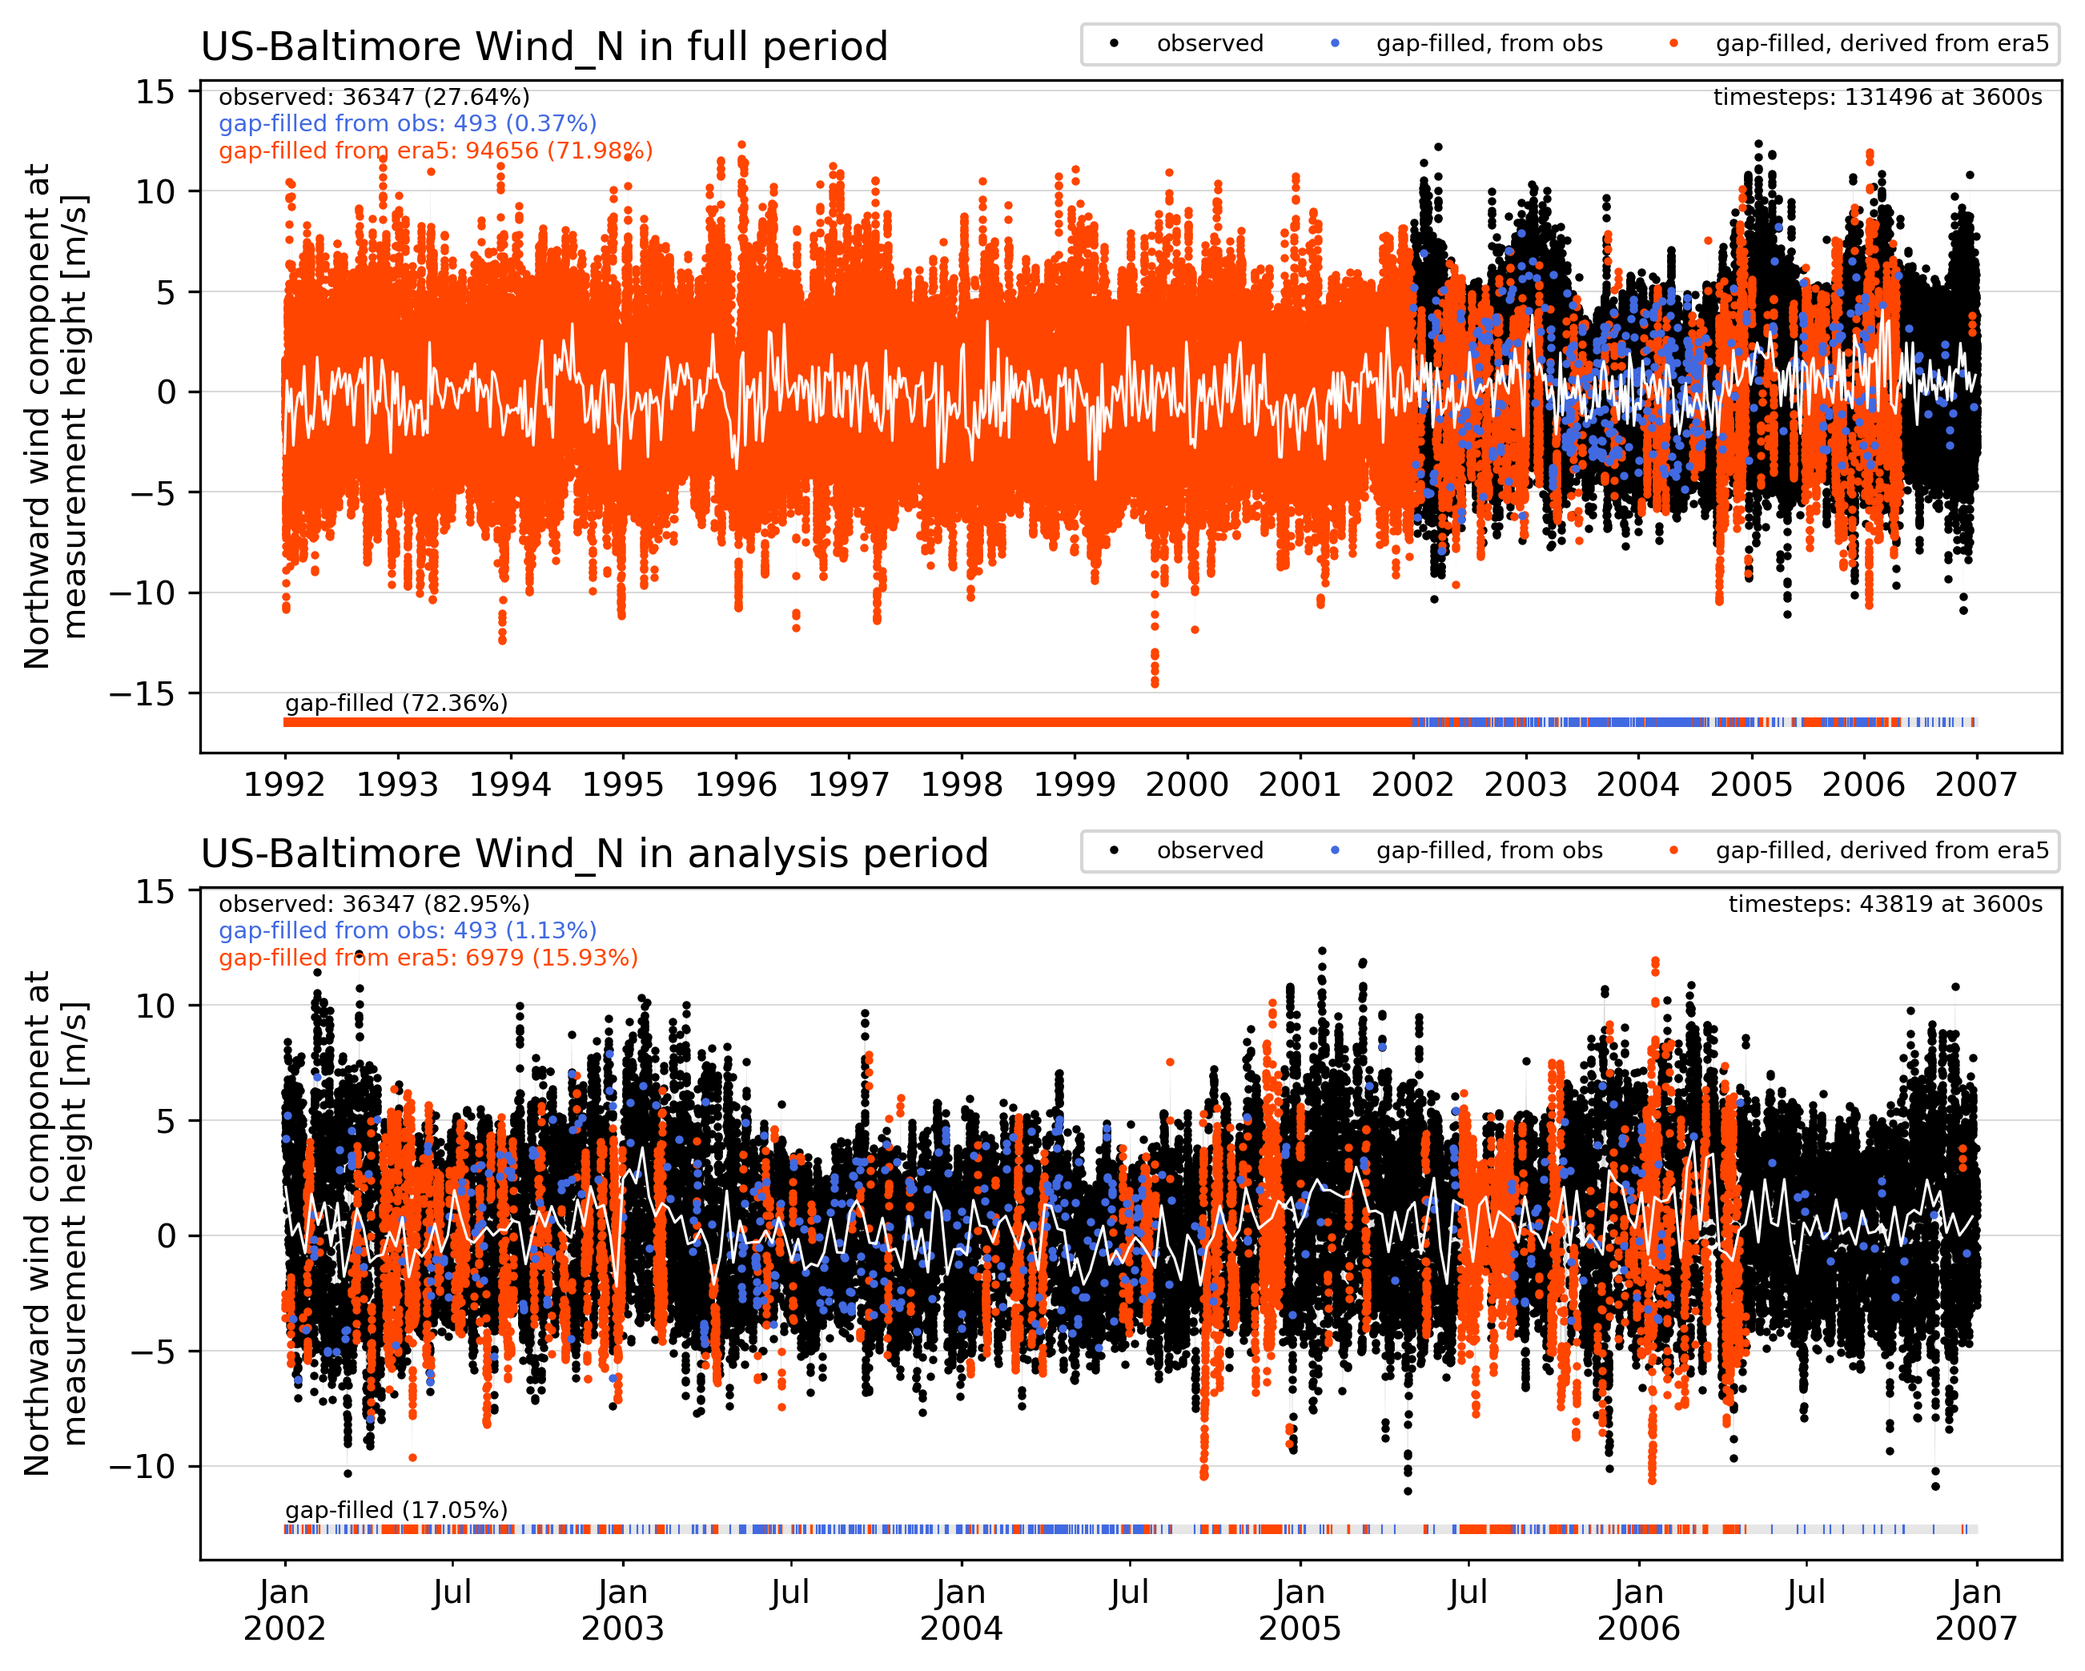
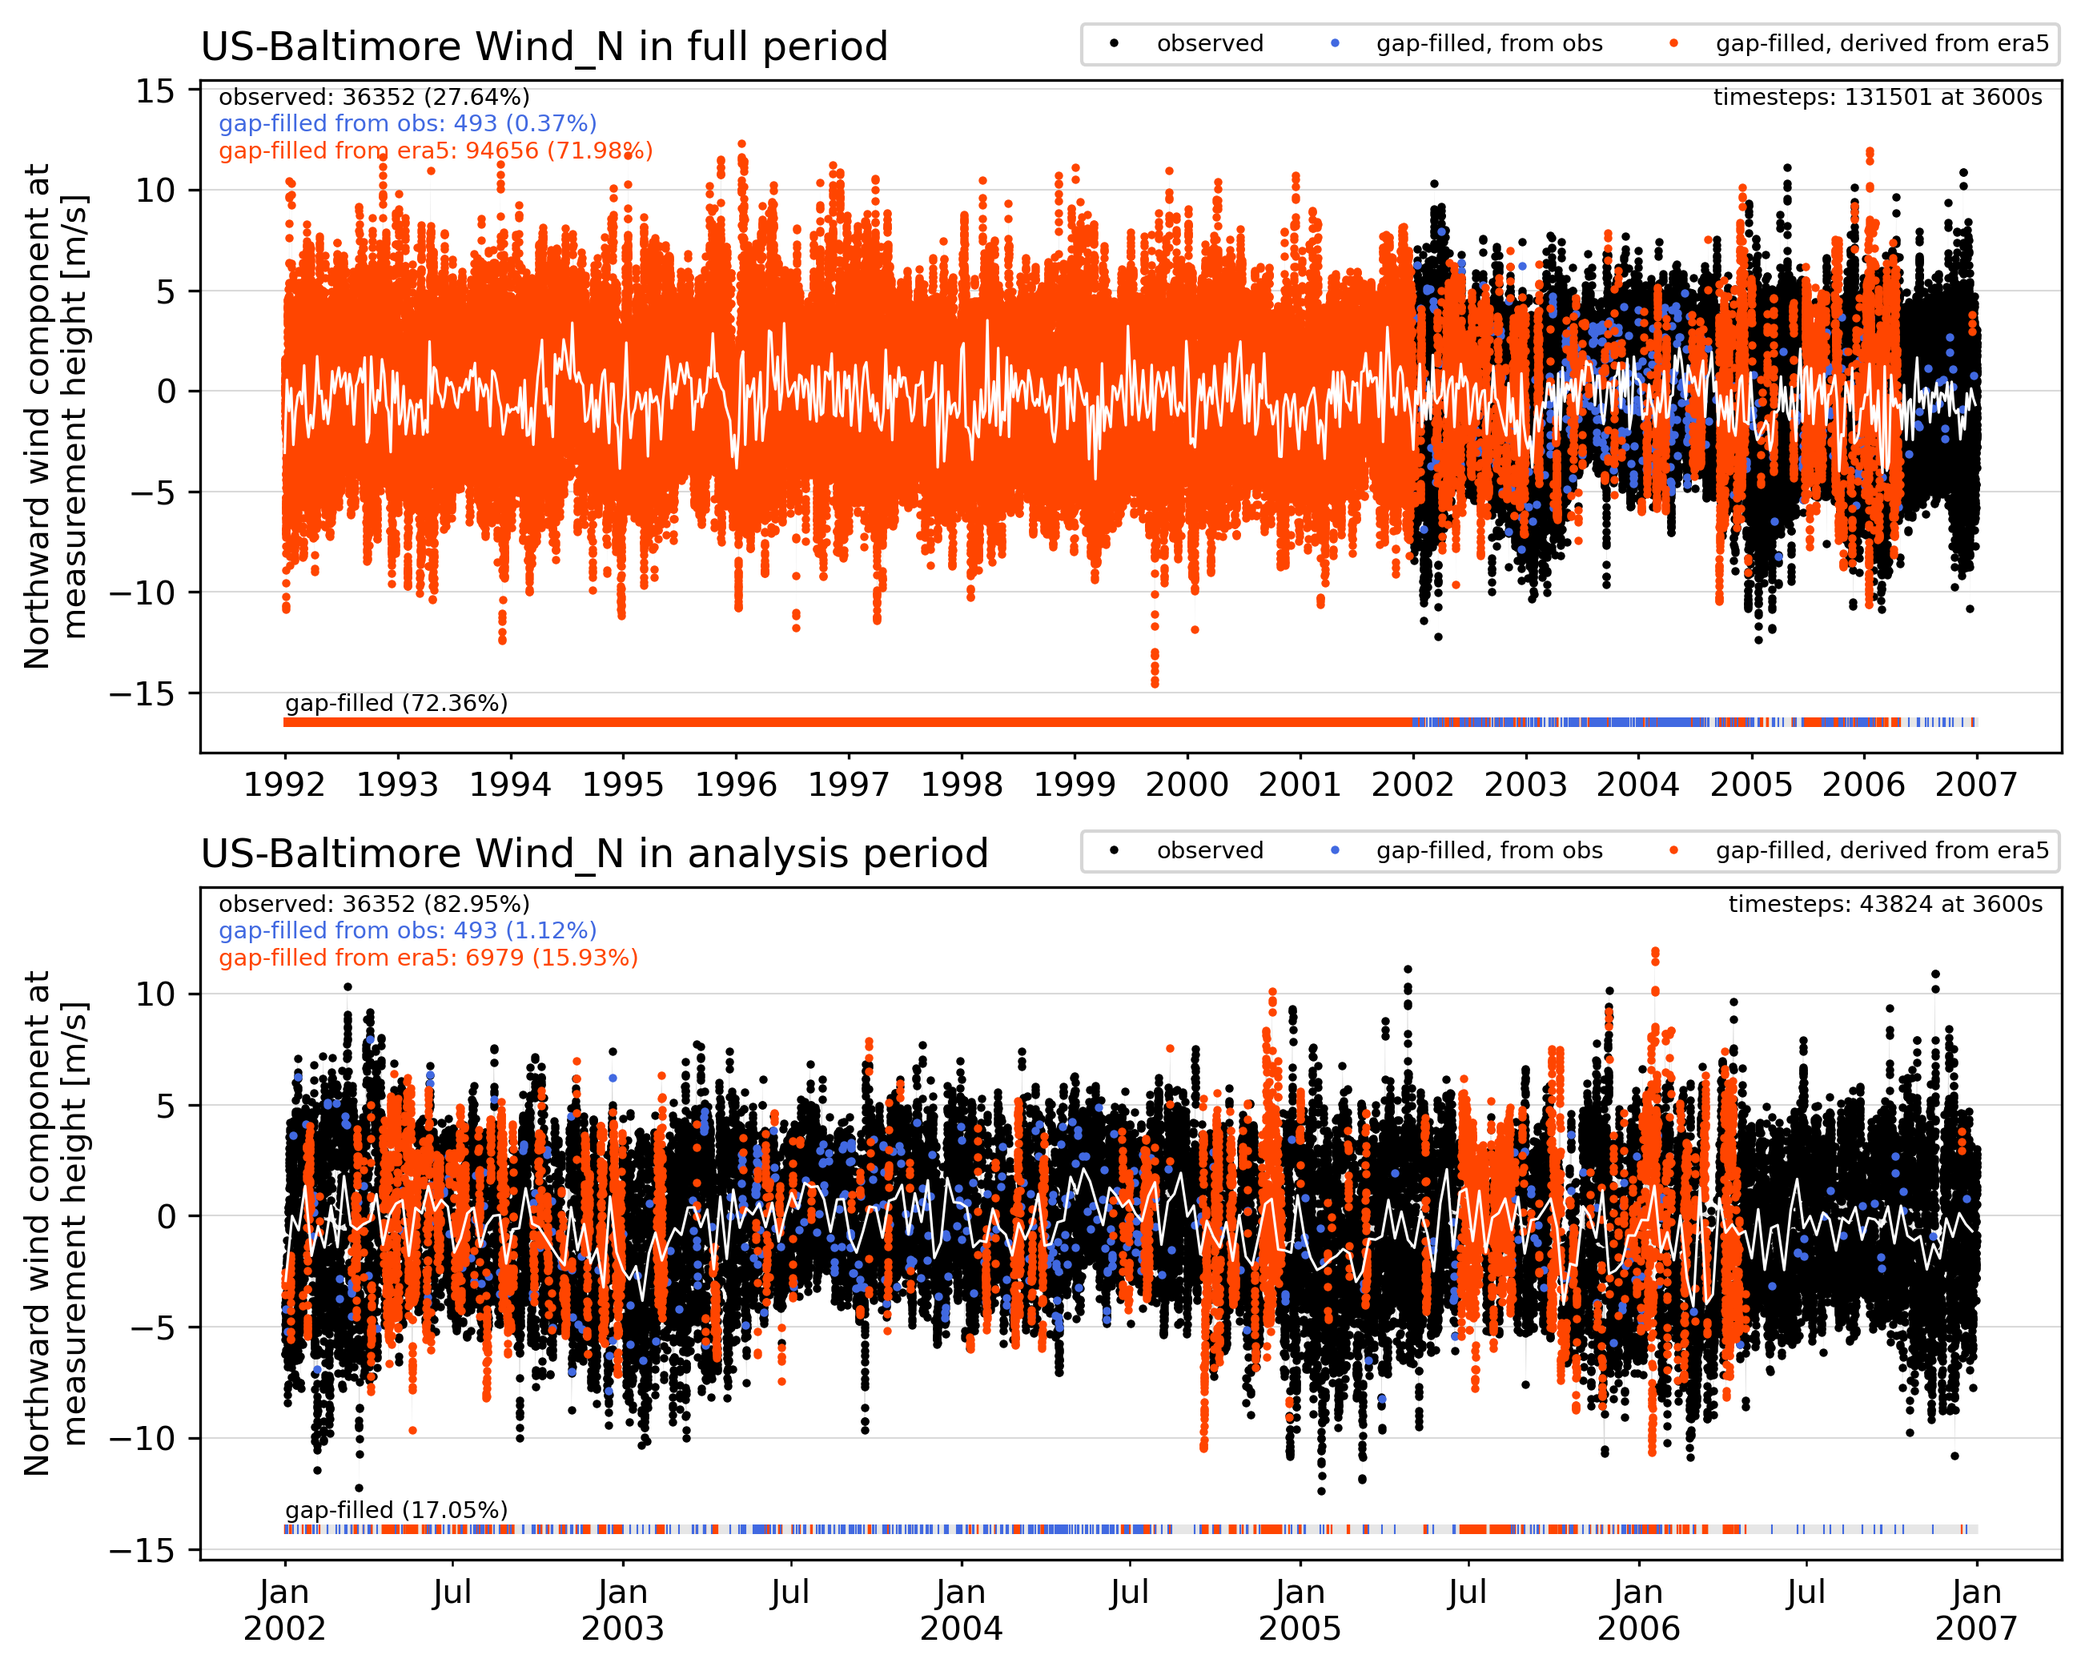
include Minneapolis pic, update Baltimore Qair (RH was >> 100), and wind (was reversed)

diff --git a/US-Baltimore/index.md b/US-Baltimore/index.md
@@ -3,30 +3,30 @@
 
 ## Site observation metadata
 
-|                           | observation_attributes                                                                                                                                                                                               |
-|:--------------------------|:---------------------------------------------------------------------------------------------------------------------------------------------------------------------------------------------------------------------|
-| title                     | URBAN-PLUMBER forcing data for US-Baltimore                                                                                                                                                                          |
-| summary                   | Observed and ERA5-derived surface meteorological data for Cub Hill, Baltimore, United States. Data is for use by registered participants of Urban-PLUMBER in this project only. Do not distribute. All times in UTC. |
-| sitename                  | US-Baltimore                                                                                                                                                                                                         |
-| long_sitename             | Cub Hill, Baltimore, United States                                                                                                                                                                                   |
-| version                   | v1                                                                                                                                                                                                                   |
-| conventions               | ALMA+CF.rev13                                                                                                                                                                                                        |
-| featureType               | timeSeries                                                                                                                                                                                                           |
-| time_coverage_start       | 1992-01-01 00:00:00                                                                                                                                                                                                  |
-| time_coverage_end         | 2007-01-01 04:00:00                                                                                                                                                                                                  |
-| time_analysis_start       | 2002-01-01 05:00:00                                                                                                                                                                                                  |
-| time_shown_in             | UTC                                                                                                                                                                                                                  |
-| local_utc_offset_hours    | -5.0                                                                                                                                                                                                                 |
-| timestep_interval_seconds | 3600.0                                                                                                                                                                                                               |
-| timestep_number_spinup    | 87677                                                                                                                                                                                                                |
-| timestep_number_analysis  | 43824                                                                                                                                                                                                                |
-| observations_contact      | Sue Grimmond (c.s.grimmond@reading.ac.uk), Ben Crawford (benjamin.crawford@ucdenver.edu)                                                                                                                             |
-| observations_reference    | Crawford, Grimmond and Christen (2011): https://doi.org/10.1016/j.atmosenv.2010.11.017                                                                                                                               |
-| project_contact           | Mathew Lipson: m.lipson@unsw.edu.au, Sue Grimmond: c.s.grimmond@reading.ac.uk, Martin Best: martin.best@metoffice.gov.uk                                                                                             |
-| date_created              | 2021-04-12 14:53:59                                                                                                                                                                                                  |
-| other_references          | ERA5: Copernicus Climate Change Service (C3S) (2017): https://cds.climate.copernicus.eu/cdsapp#!/home                                                                                                                |
-| acknowledgements          | Contains modified Copernicus Climate Change Service Information (ERA5 hourly data on single levels). With thanks to all involved in collecting, processing and sharing observational data                            |
-| comment                   | Hourly rainfall from Baltimore Washington International Airport where available                                                                                                                                      |
+|                           | observation_attributes                                                                                                                                                                                                               |
+|:--------------------------|:-------------------------------------------------------------------------------------------------------------------------------------------------------------------------------------------------------------------------------------|
+| title                     | URBAN-PLUMBER forcing data for US-Baltimore                                                                                                                                                                                          |
+| summary                   | Observed and ERA5-derived surface meteorological data for Cub Hill, Baltimore, United States. Data is for use by registered participants of Urban-PLUMBER in this project only. Do not distribute. All times in UTC.                 |
+| sitename                  | US-Baltimore                                                                                                                                                                                                                         |
+| long_sitename             | Cub Hill, Baltimore, United States                                                                                                                                                                                                   |
+| version                   | v1                                                                                                                                                                                                                                   |
+| conventions               | ALMA+CF.rev13                                                                                                                                                                                                                        |
+| featureType               | timeSeries                                                                                                                                                                                                                           |
+| time_coverage_start       | 1992-01-01 00:00:00                                                                                                                                                                                                                  |
+| time_coverage_end         | 2007-01-01 04:00:00                                                                                                                                                                                                                  |
+| time_analysis_start       | 2002-01-01 05:00:00                                                                                                                                                                                                                  |
+| time_shown_in             | UTC                                                                                                                                                                                                                                  |
+| local_utc_offset_hours    | -5.0                                                                                                                                                                                                                                 |
+| timestep_interval_seconds | 3600.0                                                                                                                                                                                                                               |
+| timestep_number_spinup    | 87677                                                                                                                                                                                                                                |
+| timestep_number_analysis  | 43824                                                                                                                                                                                                                                |
+| observations_contact      | Ben Crawford (benjamin.crawford@ucdenver.edu), Sue Grimmond (c.s.grimmond@reading.ac.uk)                                                                                                                                             |
+| observations_reference    | Crawford, Grimmond and Christen (2011): https://doi.org/10.1016/j.atmosenv.2010.11.017                                                                                                                                               |
+| project_contact           | Mathew Lipson: m.lipson@unsw.edu.au, Sue Grimmond: c.s.grimmond@reading.ac.uk, Martin Best: martin.best@metoffice.gov.uk                                                                                                             |
+| date_created              | 2021-04-29 14:31:33                                                                                                                                                                                                                  |
+| other_references          | ERA5: Copernicus Climate Change Service (C3S) (2017): https://cds.climate.copernicus.eu/cdsapp#!/home NCI Australia: http://doi.org/10.25914/5f48874388857                                                                           |
+| acknowledgements          | Contains modified Copernicus Climate Change Service Information (ERA5 hourly data on single levels). Data from replica hosted by NCI Australia. With thanks to all involved in collecting, processing and hosting observational data |
+| comment                   | Hourly rainfall from Baltimore Washington International Airport where available                                                                                                                                                      |
 
 ## Site images
 
@@ -63,7 +63,7 @@
 |   22 | topsoil_clay_fraction              |    0.17   | 1             | OpenLandMap                    | [https://doi.org/10.5281/zenodo.2525663](https://doi.org/10.5281/zenodo.2525663)                                             |
 |   23 | topsoil_sand_fraction              |    0.38   | 1             | OpenLandMap                    | [https://doi.org/10.5281/zenodo.2525662](https://doi.org/10.5281/zenodo.2525662)                                             |
 |   24 | topsoil_bulk_density               | 1310      | kg/m3         | OpenLandMap                    | [https://doi.org/10.5281/zenodo.2525665](https://doi.org/10.5281/zenodo.2525665)                                             |
-|   25 | building_height_standard_deviation |  nan      | m             | unknown                        | -                                                                                                                            |
+|   25 | building_height_standard_deviation |    2.2    | m             | estimated, see notes           | derived from avg. building height and eq. 2 of [Kanda et al. 2013](https://doi.org/10.1007/s10546-013-9818-x)                |
 
 ## Site observations
 
